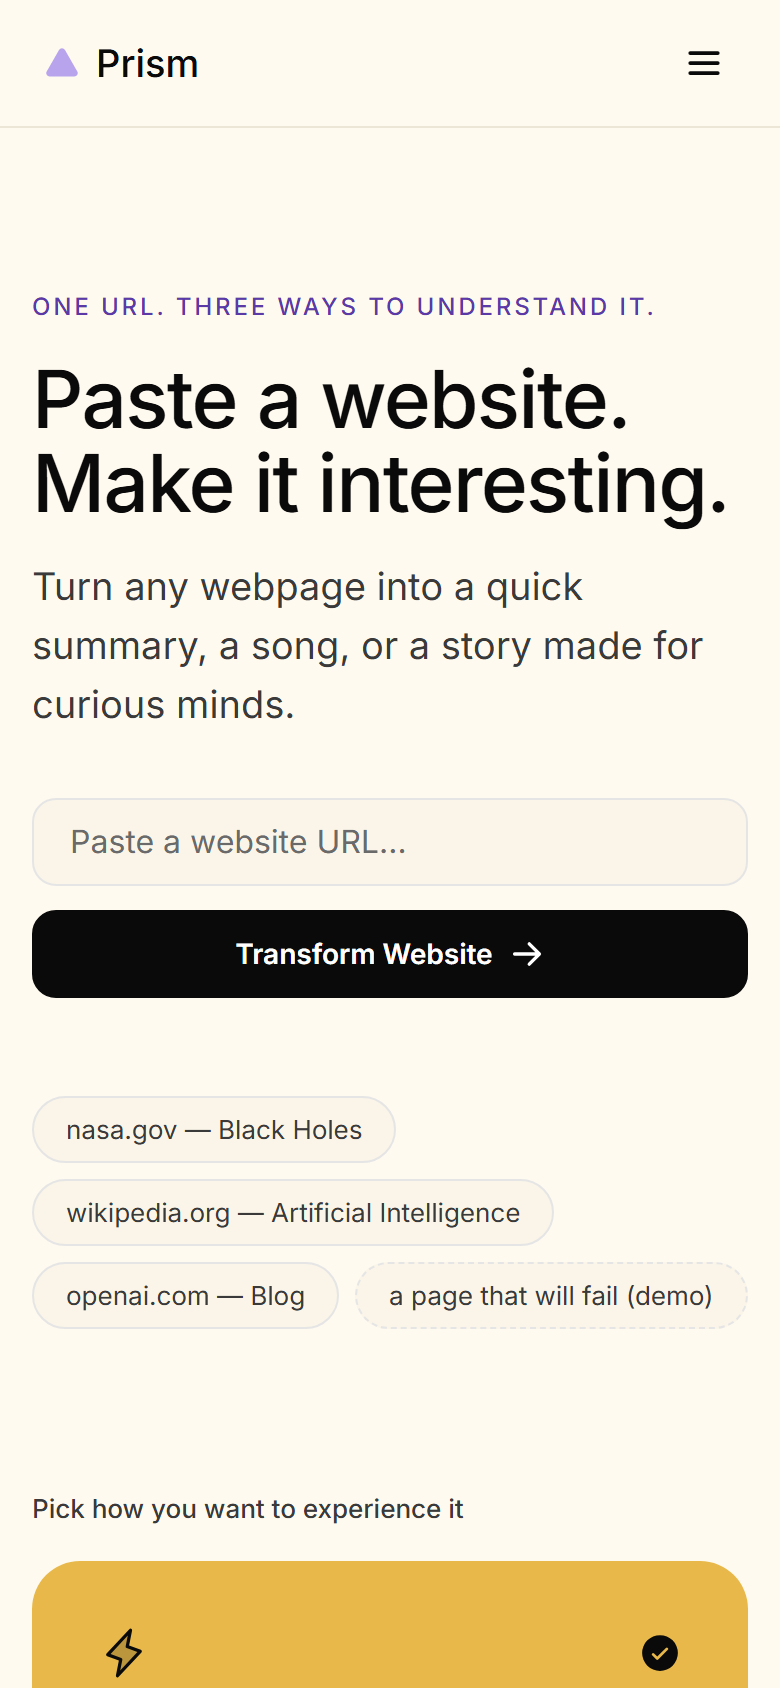
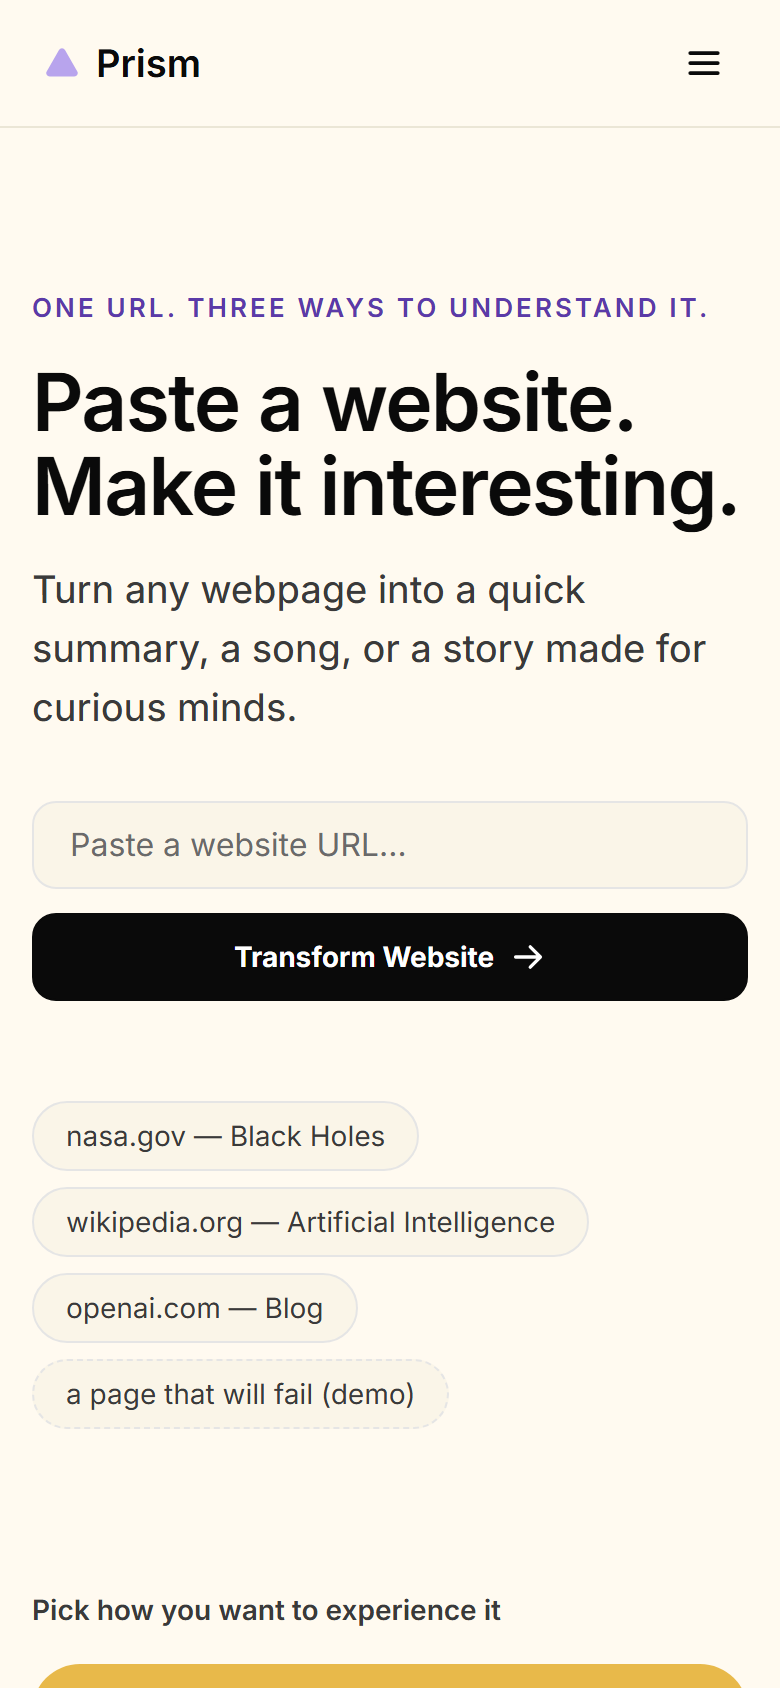
raise font weights and bump the two smallest type sizes
Body copy at Inter 400 and headings at 500 read thin on the cream canvas,
and 12-13px supporting text was small enough to strain.

DESIGN.md caps display weight at 500 on the grounds that "700 reads as
bombastic" — but that rule was written for Plain Black, a genuinely
rounded display face. Inter at the same number renders noticeably
lighter, so matching the spec numerically undersells it.

Inter now loads as a variable axis (wght@100..900), which costs no extra
font request and allows intermediate values:

  regular   400 -> 450   body copy
  medium    500 -> 600   display headings
  semibold  600 -> 680   card titles, buttons, labels

Also raised the two smallest sizes, which were the least readable text in
the app: caption 13px -> 14px, and the uppercase kicker 12px -> 13px,
where the wide letter-spacing needs the extra size to hold together.

Contrast is unaffected — weight does not change the ratio, and heavier
strokes only help legibility at these sizes. README screenshots
regenerated against the new type, using a real Gemini response.

diff --git a/src/design-system/tokens.css b/src/design-system/tokens.css
@@ -103,9 +103,15 @@
   /* ---- Type ---- */
   --font-heading: 'Inter', ui-sans-serif, system-ui, -apple-system, sans-serif;
   --font-body: 'Inter', ui-sans-serif, system-ui, -apple-system, sans-serif;
-  --fw-regular: 400;
-  --fw-medium: 500;
-  --fw-semibold: 600; /* DESIGN.md uses 600 for titles/buttons; display stays 500 */
+  /* Weights run one step heavier than DESIGN.md specifies. Clay's spec caps
+     display at 500 ("700 reads as bombastic"), but that was written for Plain
+     Black — a genuinely rounded display face. Inter at 500 renders noticeably
+     lighter than Plain Black at the same number, so matching the spec by
+     number undersells it. Inter is loaded as a variable axis, so these can be
+     tuned to any value without adding another font request. */
+  --fw-regular: 450;   /* body copy */
+  --fw-medium: 600;    /* display headings */
+  --fw-semibold: 680;  /* card titles, buttons, labels */
 
   /* Display sizes keep weight 500 + negative tracking, per DESIGN.md's
      "Plain Black at 500" rule (Inter 500 is its documented substitute). */
@@ -116,8 +122,8 @@
   --fs-body-lg: 1.1875rem;
   --fs-body: 1rem;
   --fs-body-sm: 0.875rem;
-  --fs-caption: 0.8125rem;
-  --fs-micro: 0.75rem; /* uppercase kickers — 12px, DESIGN.md caption-uppercase */
+  --fs-caption: 0.875rem;  /* 14px — was 13px, too small for supporting copy */
+  --fs-micro: 0.8125rem;   /* 13px — uppercase kickers; wide tracking needs the size */
 
   --tracking-display: -0.03em; /* the negative tracking IS the brand voice */
   --tracking-tight: -0.02em;

diff --git a/src/design-system/base.css b/src/design-system/base.css
@@ -1,4 +1,4 @@
-@import url('https://fonts.googleapis.com/css2?family=Inter:wght@400;500;600&display=swap');
+@import url('https://fonts.googleapis.com/css2?family=Inter:wght@100..900&display=swap');
 @import './tokens.css';
 
 *,
